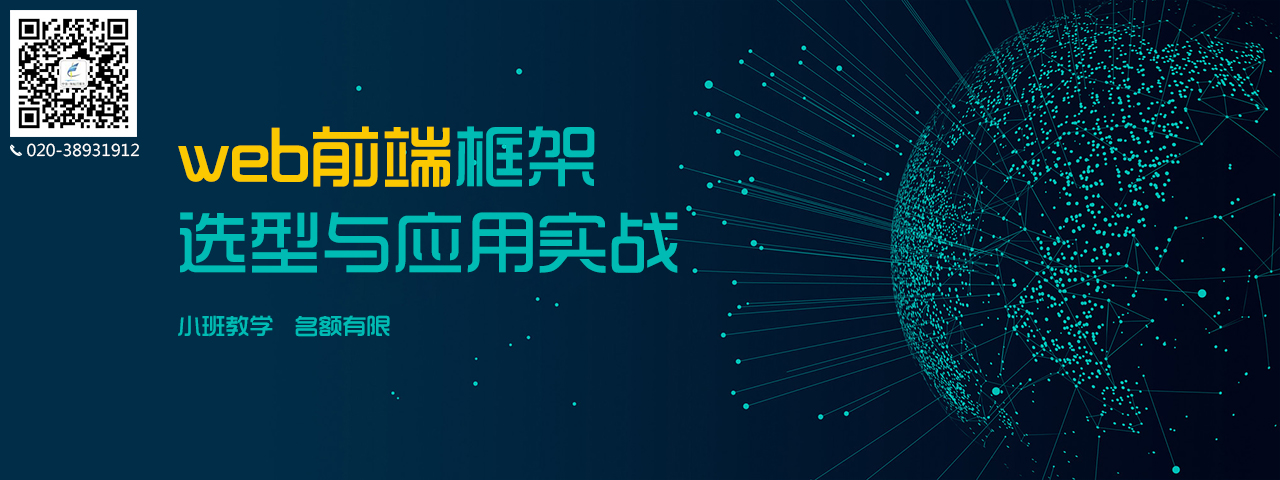
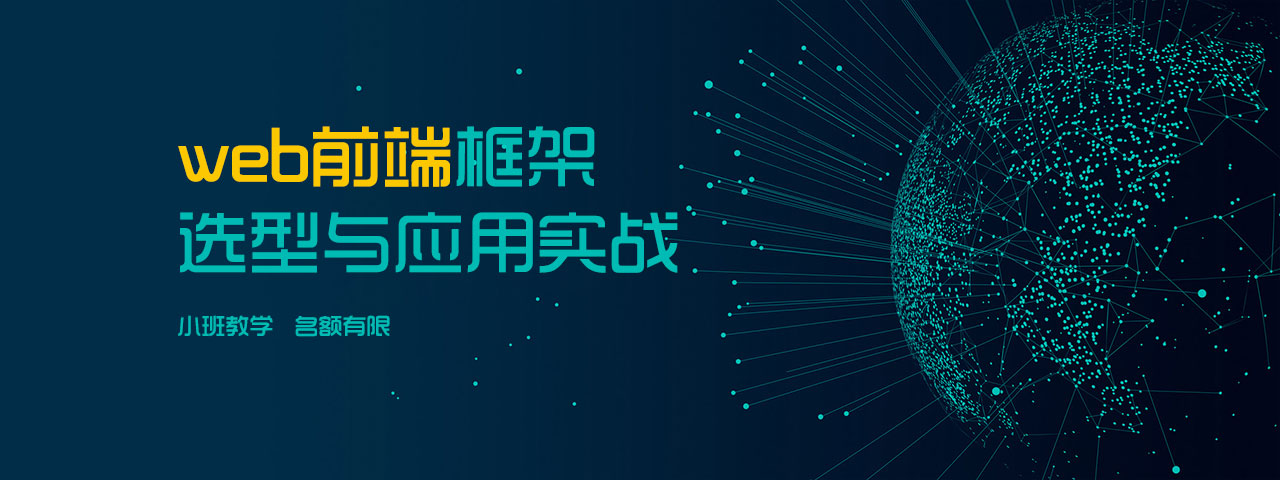
huang

Changed region(s): [[0.0, 0.0, 0.125, 0.3438]]

diff --git a/css/css.css b/css/css.css
@@ -40,7 +40,7 @@
 .entrance-header-text1{position:relative;margin: 30px 20px 0px 20px;font-size: 14px;float: left;}
 .entrance-header-text-border{left: 50%;margin-left: -9px;border-bottom:3px solid #ffffff ;width: 18px;position: absolute;top: 30px;opacity: 0;transition:all 0.5s;-moz-transition: all 0.5s; -webkit-transition: all 0.5s;-o-transition: all 0.5s}
 .entrance-header-text1:hover .entrance-header-text-border{opacity: 1;top:25px;}
-.entrance-selection{position: relative;width: 100%;background: url(../images/entrance-selection.png);background-size:cover;height: 698px;}
+.entrance-selection{position: relative;width: 100%;background: url(../images/entrance-selection.png);background-size:cover;height: 710px;margin-bottom: 80px;}
 .entrance-selection-logo{top:70px;position:absolute;z-index:4;left: 50%; margin-left:-34px;transition:all 0.5s;-moz-transition: all 0.5s; -webkit-transition: all 0.5s;-o-transition: all 0.5s}
 .entrance-selection-left,.entrance-selection-right{position: relative;width: 50%;height: 100%;float: left;}
 .entrance-selection-left-cover,.entrance-selection-right-cover{position:absolute;width: 100%;height: 100%;opacity: 0;z-index: 5;transition:all 0.5s;-moz-transition: all 0.5s; -webkit-transition: all 0.5s;-o-transition: all 0.5s}
@@ -51,11 +51,27 @@
 .entrance-selection-left:hover .entrance-selection-left-cover,.entrance-selection-right:hover .entrance-selection-right-cover{width: 100%;}
 .entrance-selection-left:hover .entrance-selection-left-cover1,.entrance-selection-right:hover .entrance-selection-right-cover1{width: 100%;opacity: 0.6;background: #000000;}
 .entrance-selection-text{position: absolute;top: 40%;width: 100%;text-align: center;color: white;font-size: 30px;line-height: 60px;z-index: 4;}
-.entrance-selection-text-center1{position: absolute;width: 100%;text-align: center;bottom:100px ;font-size: 42px;font-weight: bold;color: white;}
-.entrance-selection-text-center2{position: absolute;width: 100%;text-align: center;bottom:50px ;font-size: 22px;color: white;}
-
+.entrance-selection-text-center1{position: absolute;width: 100%;text-align: center;top:140px ;font-size: 24px;color: white;}
+.entrance-selection-text-center2{position: absolute;width: 100%;text-align: center;top:175px ;font-size: 35px;color: white;}
+.entrance-selection-text-center3{position: absolute;width: 100%;text-align: center;top:230px ;font-size: 17px;color: #8a8a8a;}
+.entrance-selection-button{z-index: 1;transition: all 0.3s;box-sizing: border-box;padding-left: 10px;border-radius:5px ;width: 155px;height: 45px;border: 2px solid #ffffff;color: #ffffff;top:270px;left: 50%;margin-left: -165px;position: absolute;line-height: 40px;text-align: center;font-size: 14px;}
+.entrance-selection-button a{color:#FFFFFF;display: block;}
+.entrance-selection-button1 a{color:#FFFFFF;display: block;}
+.entrance-selection-button img{position: absolute;top: 17px;left: 17px;}
+.entrance-selection-button:hover{background: #1998da;border: 2px solid #1998da;}
+.entrance-selection-button1{z-index: 1;transition: all 0.3s;box-sizing: border-box;padding-left: 10px;border-radius:5px ;width: 155px;height: 45px;background: #1998da;border: 2px solid #1998da;color: #ffffff;top:270px;left: 50%;margin-left: 10px;position: absolute;line-height: 40px;text-align: center;font-size: 14px;}
+.entrance-selection-button1 img{position: absolute;top: 16px;left: 20px;}
+.entrance-selection-button1:hover{background: #1998da;border: 2px solid #1998da;}
+.entrance-selection-fuwu{transition: all 0.3s;opacity: 1;position: absolute;top: 280px;left: 50%;margin-left: -438px;width:  876px;}
+.entrance-selection-peixun{transition: all 0.3s;opacity: 0;position: absolute;top: 370px;left: 50%;margin-left: -504px;width: 1008px;}
+.entrance-selection-button1:hover~.entrance-selection-fuwu{opacity: 1;}
+.entrance-selection-button:hover~.entrance-selection-peixun{opacity: 1;}
+.entrance-selection-button1:hover~.entrance-selection-peixun{opacity: 0;}
+.entrance-selection-button:hover~.entrance-selection-fuwu{opacity: 0;}
+.entrance-selection-button1:hover~.entrance-selection-button1{background: none;border: 2px solid #fff;}
+.entrance-selection-button:hover~.entrance-selection-button1{background: none;border: 2px solid #fff;}
 /*明星板块*/
-.starcourse-dibu{background: #f9f9f9;padding-top:10px ;padding-bottom: 80px;width: 100%;margin-bottom: 50px;}
+.starcourse-dibu{background: #f9f9f9;padding-top:1px ;padding-bottom: 80px;width: 100%;margin-bottom: 50px;}
 .starcourse{width: 1180px;height: 540px;margin: 0 auto;margin-top: 30px;}
 .starcourse-left{width: 360px;height: 540px;background: white;float: left;position: relative;}
 .starcourse-left-frame{cursor: pointer;text-align: center;width: 180px;height: 180px;position: absolute;color: white;transition: all 0.5s;background: -webkit-linear-gradient(left, #828282 , #787878); /* Safari 5.1 - 6.0 */background: -o-linear-gradient(right, #828282 , #787878); /* Opera 11.1 - 12.0 */background: -moz-linear-gradient(right, #828282 , #787878); /* Firefox 3.6 - 15 */background: linear-gradient(to right, #828282 , #787878);}
@@ -587,7 +603,7 @@
 }
 .enterprise-iscrum{cursor: pointer;width: 85px;height: 85px;border-radius: 50%;background: #fff;margin-bottom:20px ;margin-left: -17px;text-align: center;line-height: 85px;color: #36aaf7;transition:all 0.5s;-moz-transition:all 0.5s;-webkit-transition:all 0.5s;-o-transition:all 0.5s}
 .enterprise-iscrum:hover{opacity: 0.8;}
-.enterprise-flow{position: relative;width: 20%;height: 100%;float: left;background: url(../images/enterprise/enterprise1.jpg);transition:all 1s;-moz-transition:all 1s;-webkit-transition:all 1s;-o-transition:all 1s}
+.enterprise-flow{position: relative;width: 16.6666%;height: 100%;float: left;background: url(../images/enterprise/enterprise1.jpg);transition:all 1s;-moz-transition:all 1s;-webkit-transition:all 1s;-o-transition:all 1s}
 .enterprise-flow:nth-child(2){background: url(../images/enterprise/enterprise2.jpg);}
 .enterprise-flow:nth-child(3){background: url(../images/enterprise/enterprise3.jpg);}
 .enterprise-flow:nth-child(4){background: url(../images/enterprise/enterprise4.jpg);}
@@ -655,20 +671,20 @@
 .about-advantages-frame-hover{z-index: 1;color: #FFFFFF;position:absolute;top: 0px;left: 0px;backface-visibility:hidden;width: 100%;height: 100%;background: -webkit-linear-gradient(#1161ff, #02c1e6); /* Safari 5.1 - 6.0 */ background: -o-linear-gradient(#1161ff, #02c1e6); /* Opera 11.1 - 12.0 */background: -moz-linear-gradient(#1161ff, #02c1e6); /* Firefox 3.6 - 15 */background: linear-gradient(#1161ff, #02c1e6); /* 标准的语法 */transform:rotateY(-180deg);}
 .about-advantages-frame:hover .about-advantages-frame-flip{transform:rotateY(180deg);}
 .about-advantages-frame-none img{margin-top: 70px;margin-bottom: 25px;width: 35px;}
-.about-advantages-frame-title{font-size: 26px;margin-bottom: 5px;}
-.about-advantages-frame-text{font-size: 18px;line-height: 30px;width: 320px;margin: 0 auto;}
+.about-advantages-frame-title{font-size: 22px;margin-bottom: 5px;}
+.about-advantages-frame-text{font-size: 16px;line-height: 30px;width: 320px;margin: 0 auto;}
 .about-advantages-frame-hover .about-advantages-frame-title{margin-top:35px;}
 .about-advantages-frame-hover div:nth-child(2){margin-bottom: 10px;}
 .about-advantages-frame-hover div:nth-child(3){font-size: 16px;}
 .about-flow{padding-top: 60px;box-sizing: border-box;width: 1173px;background: url(../images/flow-beijing.jpg);background-attachment: fixed;margin: 0 auto;background-size: cover;padding-bottom: 60px;}
 .about-flow-frame{display: none;cursor: default;box-sizing: border-box;padding-right:65px;transition: all 0.3s;padding-left: 65px;color: #bebebe;margin-left:50%;border-left: 1px solid #FFFFFF;width: 50%;height: 130px;position: relative;}
 .about-flow-frame:nth-child(even){text-align: right;padding-left: 65px;padding-right: 65px;margin-left:1px;border-right: 1px solid #FFFFFF;width: 50%;border-left: 0}
-.about-flow-frame-yuan{transition: all 0.3s;border-radius: 50%;width: 16px;height: 16px;border:4px solid #cccccc ;background: white;position: absolute;left: -13px}
-.about-flow-frame:nth-child(even) .about-flow-frame-yuan{left: auto;right: -12.5px;}
+.about-flow-frame-yuan{transition: all 0.3s;border-radius: 50%;width: 14px;height: 14px;border:4px solid #cccccc ;background: white;position: absolute;left: -11.5px}
+.about-flow-frame:nth-child(even) .about-flow-frame-yuan{left: auto;right: -11.5px;}
 .about-flow-frame:hover{color: white;}
 .about-flow-frame:hover .about-flow-frame-yuan{border:4px solid #ffffff ;}
-.about-flow-frame-title{font-size: 24px;margin-bottom: 15px;}
-.about-flow-frame-text{font-size: 18px;line-height: 30px;}
+.about-flow-frame-title{font-size: 20px;margin-bottom: 15px;}
+.about-flow-frame-text{font-size: 16px;}
 .about-flow-frame-add{transition: all 0.3s;cursor: pointer;color: #cccccc;font-size: 30px;text-align: center;line-height:25px;border-radius: 50%;width: 30px;height: 30px;border:5px solid #cccccc ;background: white;margin: 0 auto;}
 .about-flow-frame-add:hover{transform:rotate(45deg);
 -ms-transform:rotate(90deg); 	/* IE 9 */
@@ -682,10 +698,10 @@
 .about-choose-frame-text{font-size: 14px;line-height: 32px;color: #999999;}
 
 .footer{background: #1c2836;width: 100%;padding-top: 70px;padding-bottom: 50px;}
-.footer-frame{width: 1179px;margin: 0 auto;position: relative;text-align: center;font-size: 16px;line-height: 28px;color: #9c9c9c;}
+.footer-frame{width: 1179px;margin: 0 auto;position: relative;text-align: center;font-size: 14px;line-height: 24px;color: #9c9c9c;}
 .footer-frame-erweima{position: absolute;left: 0;top: -50px;color: white;}
 .footer-frame-erweima-title{font-size: 22px;font-weight: bold;margin-bottom: 30px;}
 .footer-frame-erweima-title span{font-size: 10px;color: #caae8f;font-weight: 100;margin-left: 10px;}
 .footer-frame-erweima-img{background: url(../images/erwei.jpg);width: 120px;height: 120px;background-size:cover ;margin-bottom: 10px;}
 .footer-frame-erweima-text{width: 120px;text-align: center;}
-.footer-line{width: 100%;padding:10px;box-sizing: border-box;text-align: right;background: #39383a;color: #808080;padding-right: 20px;}
+.footer-line{width: 100%;padding:6px;box-sizing: border-box;text-align: right;background: #39383a;color: #808080;text-align: center;}

diff --git a/enterprise.html b/enterprise.html
@@ -301,6 +301,13 @@
 					</div>
 					<div class="enterprise-flow-text">敏捷测试</div>
 				</div>
+				<div class="enterprise-flow">
+					<div class="enterprise-flow-img">
+						<img src="images/enterprise-img1.png">
+					</div>
+					<div class="enterprise-flow-text">产品规划</div>
+					
+				</div>
 			</div>
 			<div class="enterprise-qiehuan">
 				<div class="enterprise-iscrum">
@@ -333,6 +340,11 @@
 					<div class="enterprise-qiehuan-img1"><img src="images/选中图标/10.png"></div>
 					<div class="enterprise-qiehuan-img2"><img src="images/选中图标/9.png"></div>
 					<div class="enterprise-qiehuan-text">敏捷测试</div>
+				</div>
+				<div class="enterprise-qiehuan-img">
+					<div class="enterprise-qiehuan-img1"><img src="images/选中图标/2.png"></div>
+					<div class="enterprise-qiehuan-img2"><img src="images/选中图标/1.png"></div>
+					<div class="enterprise-qiehuan-text">产品规划</div>
 				</div>
 				<div class="enterprise-qiehuan-img4">
 					<div class="enterprise-qiehuan-img3"><img src="images/选中图标/11.png"></div>
@@ -383,6 +395,16 @@
 					<div class="enterprise-content-center clearfix">
 						<div class="enterprise-content-text1"><div class="enterprise-content-text-header">敏捷测试</div>添加敏捷测试是遵循敏捷宣言的一种测试实践，强调从用户角度来重点关注持续迭代的测试方法，测试前期介入能够减少成本，最小化风险，以至于最终确保产品满足需求。<br><br>相对于传统测试的优点是：快速、高效、更接近用户需求，且能及时发现问题解决问题，有利于公司提高经济效率。</div>
 						<div class="enterprise-content-img"><img src="images/enterprise/enterprise-frame2.png"></div>
+					</div>
+				</div>
+				<div class="enterprise-content-frame">
+					<div class="enterprise-content-header">
+						产品规划
+					</div>
+					<div class="enterprise-content-center clearfix">
+						<div class="enterprise-content-text"><div class="enterprise-content-text-header">产品策划设计</div>用户调研<br>市场分析、竞品分析<br>行业产品模式分析<br>对产品进行商业模式和运营模式设计<br>产品功能架构设计</div>
+						<div class="enterprise-content-img"><img src="images/enterprise/enterprise-frame1.png"></div>
+						<div class="enterprise-content-text"><div class="enterprise-content-text-header">企业需求分析</div>对业务进行电子化需求设计<br>企业用户研究<br>企业业务流程与使用流程优化<br>企业系统信息架构设计<br>企业业务需求细化表达<br></div>
 					</div>
 				</div>
 			</div>

diff --git a/index.html b/index.html
@@ -35,7 +35,7 @@
 			</div>
 		</div>
 		<div class="entrance-selection">
-			<div class="entrance-selection-left">
+			<!--<div class="entrance-selection-left">
 				<a href="services.html">
 					<div class="entrance-selection-left-cover">
 						
@@ -60,14 +60,17 @@
 				</a>
 				<div class="entrance-selection-text">培训入口<p>我们制作专业的培训</p></div>
 			</div>
-			
-	
-			
-			<div class="entrance-selection-logo"><img src="images/index-logo.png"></div>
-			<div class="entrance-selection-text-center1">致力于为客户提供专业的服务</div>
-			<div class="entrance-selection-text-center2">诚信、务实、专业、服务、领先</div>
+			<div class="entrance-selection-logo"><img src="images/index-logo.png"></div>-->
+			<div class="entrance-selection-text-center1">授人以鱼  授之以渔</div>
+			<div class="entrance-selection-text-center2">成为最专业的软件研发服务领航者</div>
+			<div class="entrance-selection-text-center3">务实&nbsp;&nbsp;专业&nbsp;&nbsp;诚信</div>
+			<div class="entrance-selection-button"><a href="services.html"><img src="images/gjpx.png">IT高级培训</a></div>
+			<div class="entrance-selection-button1"><a href="train.html"><img src="images/yffw.png">研发服务</a></div>
+			<img src="images/index-fuwu.png" class="entrance-selection-fuwu">
+			<img src="images/index-peixun.png" class="entrance-selection-peixun">
 			<div class="clear"></div>
 		</div>
+		
 		<div class="entrance-center">
 			<div class="entrance-center-center">
 				<div class="entrance-center-center-border">
@@ -134,9 +137,7 @@
 						联系我们<span>CONTACT</span>
 					</div>
 					<div class="footer-frame-erweima-img"></div>
-					<div class="footer-frame-erweima-text">
-						扫一扫
-					</div>
+			
 				</div>
 			</div>
 			

diff --git a/services.html b/services.html
@@ -904,9 +904,7 @@
 						联系我们<span>CONTACT</span>
 					</div>
 					<div class="footer-frame-erweima-img"></div>
-					<div class="footer-frame-erweima-text">
-						扫一扫
-					</div>
+					
 				</div>
 			</div>
 			

diff --git a/about.html b/about.html
@@ -382,9 +382,7 @@
 						联系我们<span>CONTACT</span>
 					</div>
 					<div class="footer-frame-erweima-img"></div>
-					<div class="footer-frame-erweima-text">
-						扫一扫
-					</div>
+				
 				</div>
 			</div>
 			

diff --git a/activity.html b/activity.html
@@ -226,9 +226,7 @@
 						联系我们<span>CONTACT</span>
 					</div>
 					<div class="footer-frame-erweima-img"></div>
-					<div class="footer-frame-erweima-text">
-						扫一扫
-					</div>
+				
 				</div>
 			</div>
 			

diff --git a/case.html b/case.html
@@ -139,9 +139,7 @@
 						联系我们<span>CONTACT</span>
 					</div>
 					<div class="footer-frame-erweima-img"></div>
-					<div class="footer-frame-erweima-text">
-						扫一扫
-					</div>
+				
 				</div>
 			</div>
 			

diff --git a/news.html b/news.html
@@ -127,9 +127,7 @@
 						联系我们<span>CONTACT</span>
 					</div>
 					<div class="footer-frame-erweima-img"></div>
-					<div class="footer-frame-erweima-text">
-						扫一扫
-					</div>
+				
 				</div>
 			</div>
 			

diff --git a/train.html b/train.html
@@ -324,9 +324,7 @@
 						联系我们<span>CONTACT</span>
 					</div>
 					<div class="footer-frame-erweima-img"></div>
-					<div class="footer-frame-erweima-text">
-						扫一扫
-					</div>
+				
 				</div>
 			</div>
 			

diff --git a/join.html b/join.html
@@ -95,9 +95,7 @@
 						联系我们<span>CONTACT</span>
 					</div>
 					<div class="footer-frame-erweima-img"></div>
-					<div class="footer-frame-erweima-text">
-						扫一扫
-					</div>
+				
 				</div>
 			</div>
 			
